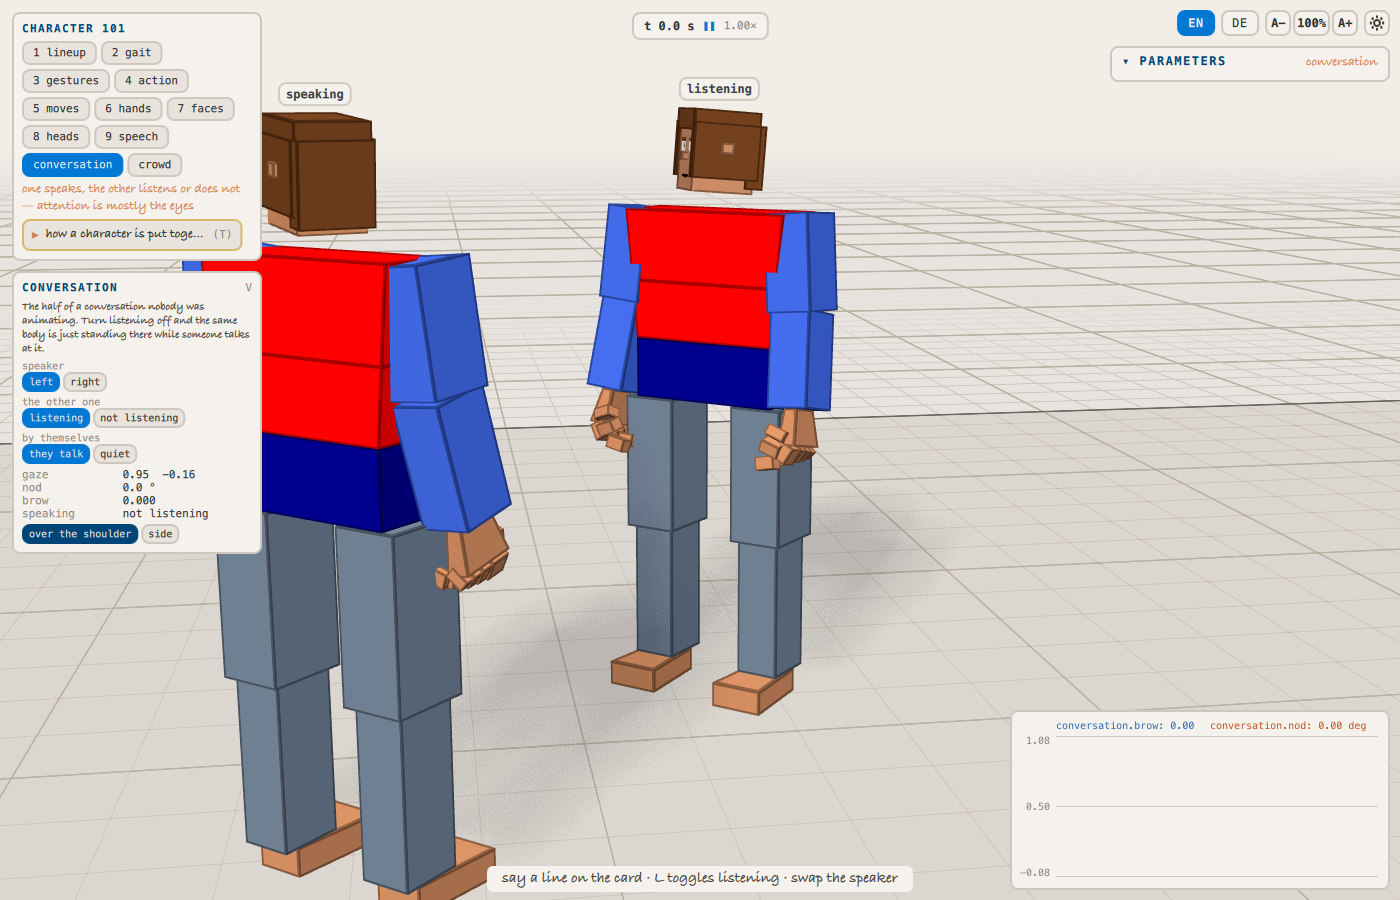
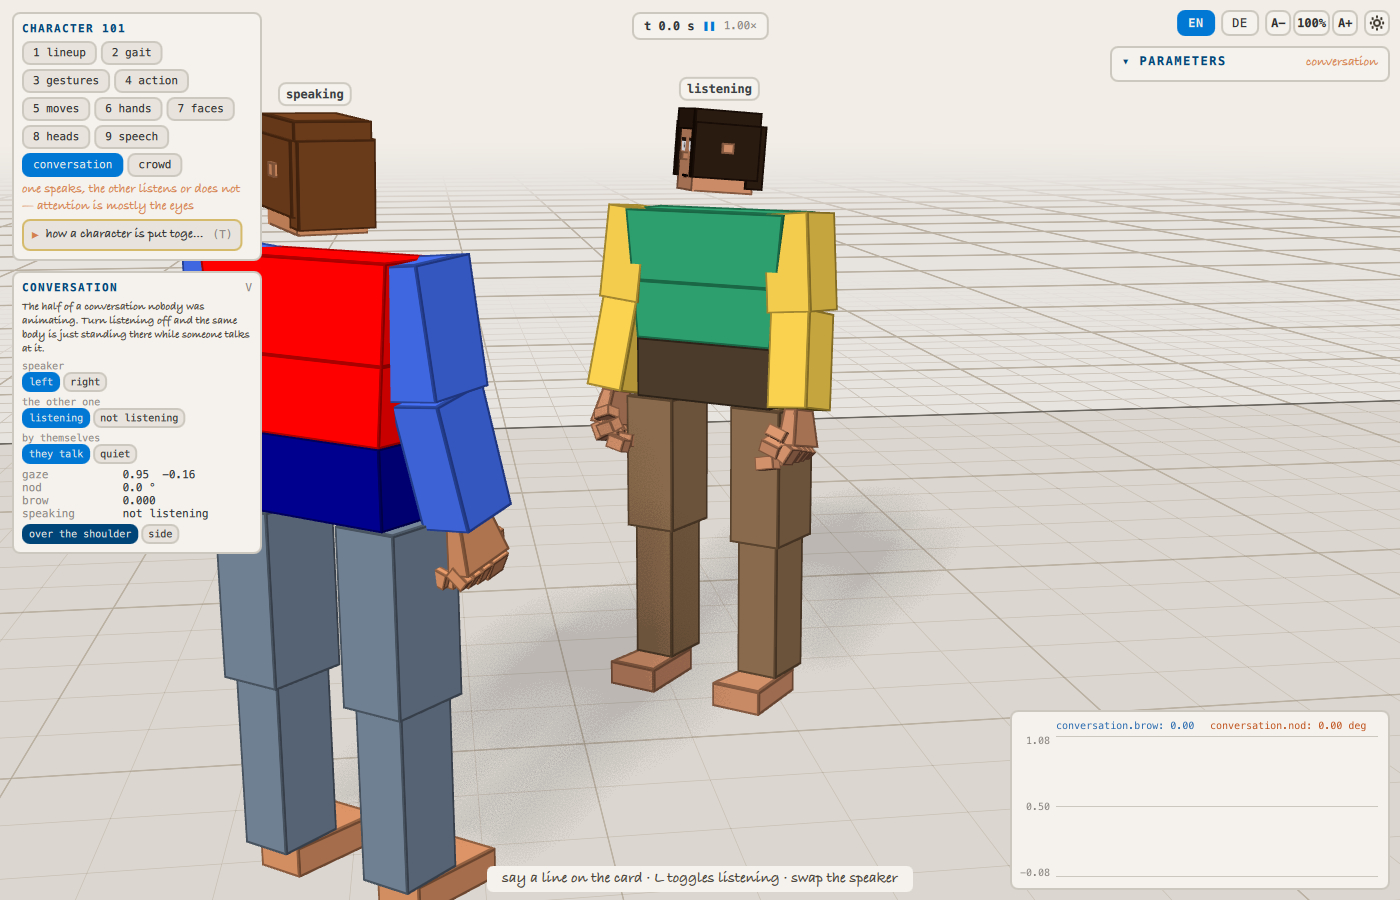
character kit: the second voice in the conversation wears green and yellow - two identical figures cannot be told apart from one shot to the reverse (#240)

Changed region(s): [[0.3993, 0.0933, 0.6143, 0.7467]]

diff --git a/labs/kits/character/ConversationStage.qml b/labs/kits/character/ConversationStage.qml
@@ -298,14 +298,16 @@ Node {
         detail: Character.Detail.High
         blinkSeed: 11
         listeningTo: (scene.listening && scene.speakerIndex === 0) ? _a : null
+        // Dressed differently on purpose: two identical figures swapping
+        // roles cannot be told apart from one shot to the reverse.
         skinColor: scene.silhouette ? LabTheme.ink : "#c98a63"
-        hairColor: scene.silhouette ? LabTheme.ink : "#734120"
+        hairColor: scene.silhouette ? LabTheme.ink : "#2b1d14"
         eyeColor: scene.silhouette ? LabTheme.ink : "#4a3728"
-        torsoColor: scene.silhouette ? LabTheme.ink : "red"
-        hipColor: scene.silhouette ? LabTheme.ink : "darkblue"
-        armColor: scene.silhouette ? LabTheme.ink : "#4169e1"
-        legColor: scene.silhouette ? LabTheme.ink : "#708090"
-        handColor: scene.silhouette ? LabTheme.ink : "#d38d5f"
-        footColor: scene.silhouette ? LabTheme.ink : "#d38d5f"
+        torsoColor: scene.silhouette ? LabTheme.ink : "#2e9e6b"
+        hipColor: scene.silhouette ? LabTheme.ink : "#4a3b2a"
+        armColor: scene.silhouette ? LabTheme.ink : "#f0c94a"
+        legColor: scene.silhouette ? LabTheme.ink : "#8a6a4a"
+        handColor: scene.silhouette ? LabTheme.ink : "#c98a63"
+        footColor: scene.silhouette ? LabTheme.ink : "#c98a63"
     }
 }
